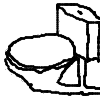
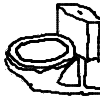
hyper realistic flush down

diff --git a/src/2/throw-stinky.js b/src/2/throw-stinky.js
@@ -3,18 +3,27 @@ var Toilett = function() {
   var height = 100;
   var name = 'toilet';
   var file = name + '.png';
+  var nameOpen = 'toilet-open';
+  var fileOpen = nameOpen + '.png';
   var sprite;
   var thingToFlushDown;
   var speedForFlushDown = 2;
 
   this.preload = function() {
     game.load.spritesheet(name, file, width, height);
+    game.load.image(nameOpen, fileOpen, width, height);
   }
 
   this.create = function() {
     var posX = game.world.width - width;
     var posY = game.world.height / 2;
     sprite = game.add.sprite(posX, posY, name);
+  };
+
+  this.postcreate = function() {
+    var posX = game.world.width - width;
+    var posY = game.world.height / 2;
+    game.add.sprite(posX, posY, nameOpen);
   };
 
   this.isHit = function(position) {
@@ -169,6 +178,7 @@ var StinkySystem = function() {
     game.input.onUp.add(onGameInputUp, this);
     toilet.create();
     stinky.create();
+    toilet.postcreate();
   };
 
   var update = function() {
